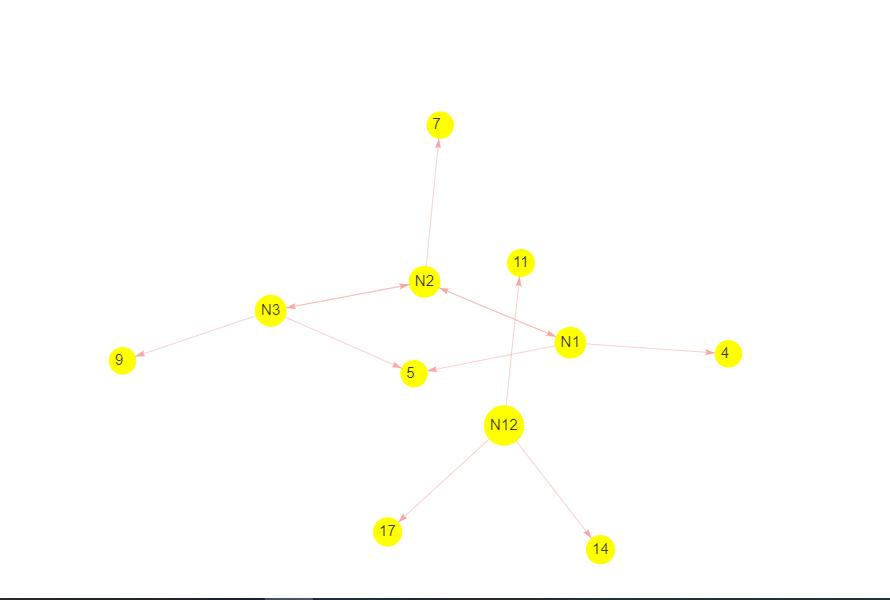
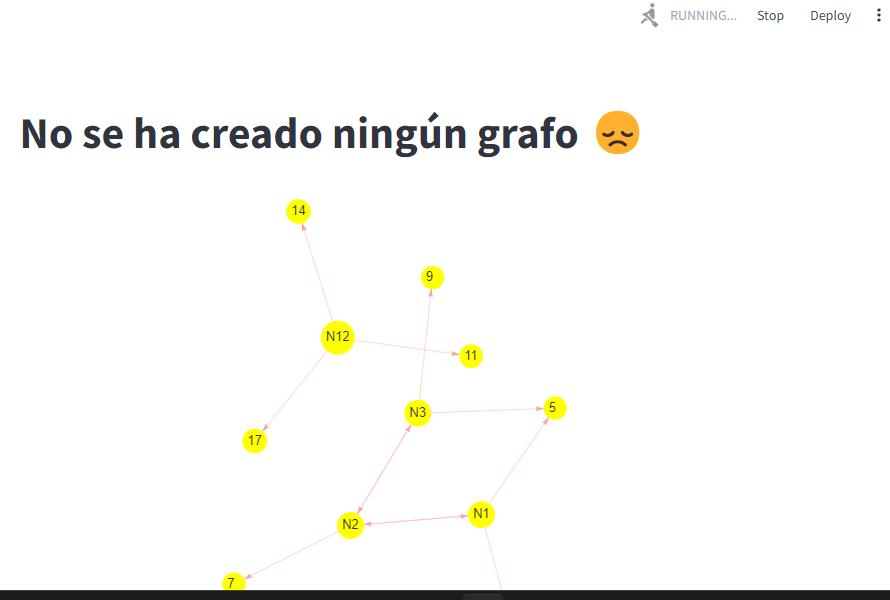
Analisis exportacion

diff --git a/main.py b/main.py
@@ -50,6 +50,7 @@ class GraphApp:
         elif submenu_opcion == "Nuevo Grafo":
             self.archivo_nuevo_grafo()
         elif submenu_opcion == "Salir":
+            #config = Config(width=750, height=500, directed=True, physics=True, hierarchical=False)
             self.salir()
             
           
@@ -80,9 +81,8 @@ class GraphApp:
                 
                 
     def archivo_nuevo_grafo(self):
-        if st.session_state.grafo["nodes"] is None:
-            st.title("No se ha creado ningún grafo 😞")
-        else:
+        
+        if st.session_state.grafo["nodes"] is not None:
             st.header("Grafo")
             agraph(st.session_state.grafo["nodes"], st.session_state.grafo["edges"],
                         st.session_state.grafo["config"])
@@ -120,7 +120,7 @@ class GraphApp:
         # Color para todos los nodos
         color_nodos = st.sidebar.color_picker("Color de todos los nodos", value="#3498db")
 
-        config = Config(width=750, height=400, directed=dirigido, physics=True, hierarchical=False)
+        config = Config(width=600, height=300, directed=dirigido, physics=True, hierarchical=False)
         
         # Crear grafo personalizado al hacer clic en el botón
         if st.sidebar.button("Crear Grafo"):
@@ -144,16 +144,17 @@ class GraphApp:
                     if not dirigido:
                         edges.append(Edge(source=f"Nodo_{i+2}", target=f"Nodo_{i+1}", label=peso_aristas))
 
-
-      
-            # Generar una clave única para el widget agraph
-            unique_key = f"agraph_{uuid.uuid4().hex}"
             st.session_state.grafo = {"nodes": nodes, "edges": edges, "config": config}
             st.header("Grafo")
             grafo_personalizado = agraph(st.session_state.grafo["nodes"], st.session_state.grafo["edges"],
                             st.session_state.grafo["config"])
 
     def salir(self):
+        if st.session_state.grafo["nodes"] is not None:
+            st.header("Grafo")
+            agraph(st.session_state.grafo["nodes"], st.session_state.grafo["edges"],
+                        st.session_state.grafo["config"])
+
         exit_app = st.sidebar.button("Click para salir de la aplicación")
         if exit_app:
             time.sleep(3)
@@ -163,6 +164,11 @@ class GraphApp:
             p.terminate()
 
     def archivo_abrir(self):
+        if st.session_state.grafo["nodes"] is not None:
+            st.header("Grafo")
+            agraph(st.session_state.grafo["nodes"], st.session_state.grafo["edges"],
+                        st.session_state.grafo["config"])
+
         # Widget para cargar el archivo JSON
         uploaded_file = st.sidebar.file_uploader("Selecciona un archivo JSON", type=["json"])
 
@@ -190,7 +196,7 @@ class GraphApp:
                             edges.append(Edge(source=idNode, label=edge["weight"], 
                                               target=edge["nodeId"]))
 
-                config = Config(width=750, height=500, directed=True, physics=True, hierarchical=False)
+                config = Config(width=600, height=300, directed=True, physics=True, hierarchical=False)
                 
                 st.session_state.grafo = {"nodes": nodes, "edges": edges, "config": config}
                 agraph(st.session_state.grafo["nodes"], st.session_state.grafo["edges"],
@@ -214,8 +220,6 @@ class GraphApp:
                 captura.save("captura_1.png")
                 captura.save("captura_2.jpg")
 
-             
-                            
                 
             except json.JSONDecodeError:
                 st.error("Error al decodificar el archivo JSON. Asegúrate de que el archivo tenga un formato JSON válido.")
